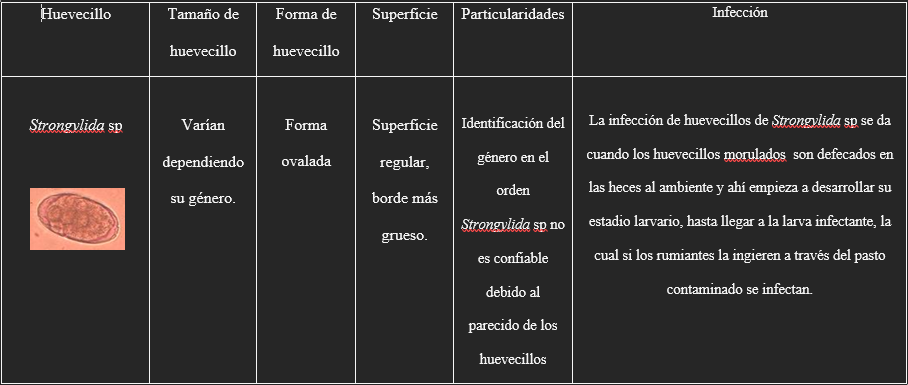
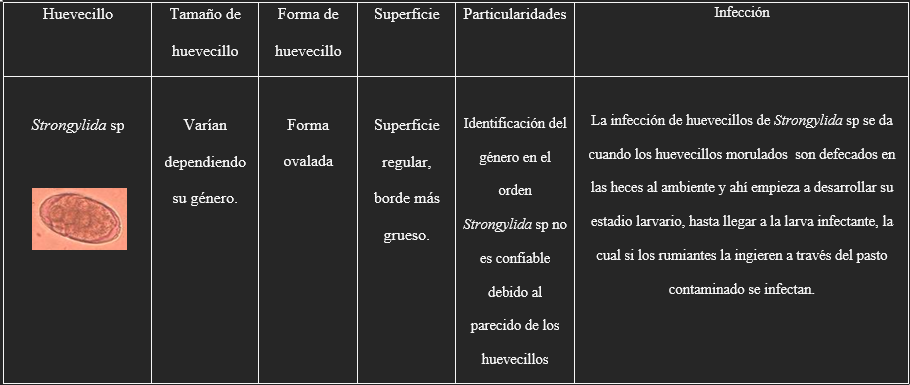
image changes

diff --git a/huevecillos/rumiantes_menores/ovinos_caprinos.html b/huevecillos/rumiantes_menores/ovinos_caprinos.html
@@ -23,21 +23,21 @@
         <div class="contenido informacion">
     
             <h1>
-              Ovinos Caprinos
+                Ovinos y Caprinos
             </h1>
             
             <div class="container">
                 <div class="inner-div">
                     <img src="Strongyloides/Strongyloides.png" alt="" class="img-informativa" style="width: 250px; height: 250px;">
-                    <a href="Strongyloides/tabla_Strongyloides.html">Strongyloides</a>
+                    <a href="Strongyloides/tabla_Strongyloides.html"><i>Strongyloides</i> sp</a>
                 </div>
                 <div class="inner-div">
                     <img src="strongylida/Strongylida_sp.png" alt="" class="img-informativa" style="width: 250px; height: 250px;">
-                    <a href="strongylida/tabla_strongylida.html">Strongylida</a>
+                    <a href="strongylida/tabla_strongylida.html"><i>Strongylida</i> sp</a>
                 </div>
                 <div class="inner-div">
                     <img src="moneizia/Moneizia.png" alt="" class="img-informativa" style="width: 250px; height: 250px;">
-                    <a href="moneizia/tabla_moneizia.html">Moneizia</a>
+                    <a href="moneizia/tabla_moneizia.html"><i>Moneizia</i> sp</a>
                 </div>                
             </div>
             

diff --git a/huevecillos/rumiantes_mayores/rumiantes/bufalino/bufalino.html b/huevecillos/rumiantes_mayores/rumiantes/bufalino/bufalino.html
@@ -28,7 +28,11 @@
             <div class="container">
                 <div class="inner-div">
                     <img src="toxocara_sp.png" alt="" class="img-informativa">
-                    <a href="tabla_toxacara.html">toxocara</a> <!-- tocxocara sp toxocara en cursiva, y sp normal, tococara abajoa de la imgaen -->
+                    <a href="tabla_toxacara.html"><i>Toxocara</i> sp</a> <!-- tocxocara sp toxocara en cursiva, y sp normal, tococara abajoa de la imgaen -->
+                </div>
+                <div class="inner-div">
+                    <img src="bovinos_en_bufanilos.jpeg" alt="" class="img-informativa">
+                    <a href="../bovino/tabla_strongylida.html"><i>Strongylida</i> sp</a> <!-- stringylida en cursiva */  p[oner esto abajo d ela imaegen-->
                 </div>
             </div>
             

diff --git a/huevecillos/rumiantes_mayores/rumiantes/bovino/bovino.html b/huevecillos/rumiantes_mayores/rumiantes/bovino/bovino.html
@@ -26,10 +26,9 @@
                 Bovino
             </h1>
             <div class="container">
-                <div class="inner-div
-                ">
-                    <img src="Strongylida_sp.png" alt="" class="img-informativa">
-                    <a href="tabla_strongylida.html">strongylida sp</a> <!-- stringylida en cursiva */  p[oner esto abajo d ela imaegen-->
+                <div class="inner-div">
+                    <img src="remplazo_bovinos.jpeg" alt="" class="img-informativa">
+                    <a href="tabla_strongylida.html"><i>Strongylida</i> sp</a> <!-- stringylida en cursiva */  p[oner esto abajo d ela imaegen-->
                 </div>
             </div>
             

diff --git a/huevecillos/rumiantes_mayores/rumiantes/bovino/tabla_strongylida.html b/huevecillos/rumiantes_mayores/rumiantes/bovino/tabla_strongylida.html
@@ -23,12 +23,12 @@
     </div>
     <div class="contenido informacion"> 
             <h1>
-                Strongyloides
+                Strongylida sp 
             </h1>
            
             <div >
 
-                <img src="tabla_Strongylida_sp.png" alt="" style="max-width: 100%; max-height: 1000px;">
+                <img src="tabla_bovino_2.png" alt="" style="max-width: 100%; max-height: 1000px;">
  
             </div>
 \

diff --git a/huevecillos/rumiantes_mayores/rumiantes/bufalino/tabla_toxacara.html b/huevecillos/rumiantes_mayores/rumiantes/bufalino/tabla_toxacara.html
@@ -23,7 +23,7 @@
     </div>
     <div class="contenido informacion"> 
             <h1>
-                Strongyloides
+                Toxocara sp
             </h1>
            
             <div >

diff --git a/huevecillos/rumiantes_menores/moneizia/tabla_moneizia.html b/huevecillos/rumiantes_menores/moneizia/tabla_moneizia.html
@@ -23,7 +23,7 @@
     </div>
     <div class="contenido informacion"> 
             <h1>
-                Moneizia
+                Moneizia sp
             </h1>
            
             <div >

diff --git a/index.css b/index.css
@@ -100,7 +100,7 @@ p{
   display: block;
   margin-top: 10px;
   text-decoration: none;
-  color: #333;
+  color: #ffffff;
   font-size: larger;
 }
 
